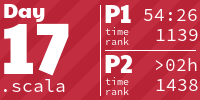
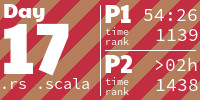
Add solution for 2022 day 17 part 2

diff --git a/src/y2022/day17.rs b/src/y2022/day17.rs
@@ -4,6 +4,7 @@ use std::{
 };
 
 use glam::IVec2;
+use itertools::Itertools;
 
 use crate::{
     common::grid::{directions::Direction, parse_set, walk::Walk},
@@ -27,6 +28,9 @@ const ROCKS: &str = "####
 
 ##
 ##";
+
+const ROCKS_P1: u16 = 2022;
+const ROCKS_P2: u64 = 1_000_000_000_000;
 
 pub struct Solution {
     rocks: Vec<Vec<IVec2>>,
@@ -66,10 +70,10 @@ impl AoCDay for Solution {
         let mut chamber = (0..7).map(|x| IVec2::new(x, 1)).collect::<HashSet<_>>();
         let mut direction_offset = 0;
 
-        for r in 0..2022 {
+        for r in 0..ROCKS_P1 {
             direction_offset = self.fall_rock(
                 &mut chamber,
-                &self.rocks[r % self.rocks.len()],
+                &self.rocks[r as usize % self.rocks.len()],
                 direction_offset,
             );
         }
@@ -78,7 +82,52 @@ impl AoCDay for Solution {
     }
 
     fn part2(&self) -> String {
-        todo!();
+        let mut chamber = (0..7).map(|x| IVec2::new(x, 1)).collect::<HashSet<_>>();
+        let mut rock_offset = 0;
+        let mut direction_offset = 0;
+
+        let mut states = vec![(vec![0; 7], rock_offset, direction_offset)];
+        let mut heights = vec![0];
+
+        let loop_state = loop {
+            direction_offset =
+                self.fall_rock(&mut chamber, &self.rocks[rock_offset], direction_offset);
+            rock_offset = (rock_offset + 1) % self.rocks.len();
+
+            let state = (top_line(&chamber), rock_offset, direction_offset);
+            if states.contains(&state) {
+                break state;
+            } else {
+                states.push(state);
+                heights.push(chamber_height(&chamber));
+            }
+        };
+
+        let loop_start = states.iter().position(|s| s == &loop_state).unwrap();
+        let loop_size = states.len() - loop_start;
+
+        let after_loop_height = chamber_height(&chamber);
+        let loop_height = after_loop_height - heights[loop_start];
+
+        let top_line_after_loop = loop_state.0;
+        let top_line_offset = top_line_after_loop.iter().min().unwrap();
+        let mut end_chamber = top_line_after_loop
+            .iter()
+            .enumerate()
+            .map(|(x, y)| IVec2::new(x as i32, *y - top_line_offset + 1))
+            .collect::<HashSet<_>>();
+
+        let remaining_rocks = ROCKS_P2 - states.len() as u64;
+        for _ in 0..(remaining_rocks % loop_size as u64) {
+            direction_offset =
+                self.fall_rock(&mut end_chamber, &self.rocks[rock_offset], direction_offset);
+            rock_offset = (rock_offset + 1) % self.rocks.len();
+        }
+
+        (after_loop_height as u64
+            + remaining_rocks / loop_size as u64 * loop_height as u64
+            + chamber_height(&end_chamber) as u64)
+            .to_string()
     }
 }
 
@@ -87,8 +136,8 @@ impl Solution {
         &self,
         chamber: &mut HashSet<IVec2>,
         rock: &[IVec2],
-        mut direction_offset: u16,
-    ) -> u16 {
+        mut direction_offset: usize,
+    ) -> usize {
         let mut rock = rock
             .iter()
             .map(|r| r.move_distance(Direction::Up, chamber_height(chamber) + 3))
@@ -97,7 +146,7 @@ impl Solution {
         loop {
             let moved_rock = rock
                 .iter()
-                .map(|r| r.move_step(self.jets[direction_offset as usize % self.jets.len()]))
+                .map(|r| r.move_step(self.jets[direction_offset]))
                 .collect::<Vec<_>>();
             if !moved_rock
                 .iter()
@@ -105,7 +154,7 @@ impl Solution {
             {
                 rock = moved_rock;
             }
-            direction_offset += 1;
+            direction_offset = (direction_offset + 1) % self.jets.len();
 
             let fallen_rock = rock
                 .iter()
@@ -126,6 +175,19 @@ fn chamber_height(chamber: &HashSet<IVec2>) -> i32 {
     -(chamber.iter().min_by_key(|r| r.y).unwrap().y - 1)
 }
 
+fn top_line(chamber: &HashSet<IVec2>) -> Vec<i32> {
+    let top_line = chamber
+        .iter()
+        .into_grouping_map_by(|r| r.x)
+        .min_by_key(|_, r| r.y)
+        .iter()
+        .sorted_by_key(|(x, _)| *x)
+        .map(|(_, r)| r.y)
+        .collect::<Vec<_>>();
+    let offset = top_line.iter().max().unwrap();
+    top_line.iter().map(|y| y - offset).collect()
+}
+
 #[cfg(test)]
 mod tests {
     use super::*;
@@ -144,14 +206,12 @@ mod tests {
     }
 
     #[test]
-    #[ignore]
     fn test_part2_example() {
         let day = Solution::with_input(input!(example: 2022 17));
         assert_eq!(day.part2(), "1514285714288");
     }
 
     #[test]
-    #[ignore]
     fn test_part2_input() {
         let day = Solution::with_input(input!(input: 2022 17));
         assert_eq!(day.part2(), "1565517241382");

diff --git a/README.md b/README.md
@@ -53,7 +53,7 @@ Rust solutions for [Advent of Code](http://adventofcode.com/). My scala solution
 <a href="src/y2022/day16.rs">
   <img src="AoCTiles/2022/16.png" width="161px">
 </a>
-<a href="https://github.com/SuperTux88/adventofcode/blob/main/src/main/scala/adventofcode/y2022/Day17.scala">
+<a href="src/y2022/day17.rs">
   <img src="AoCTiles/2022/17.png" width="161px">
 </a>
 <a href="https://github.com/SuperTux88/adventofcode/blob/main/src/main/scala/adventofcode/y2022/Day18.scala">
